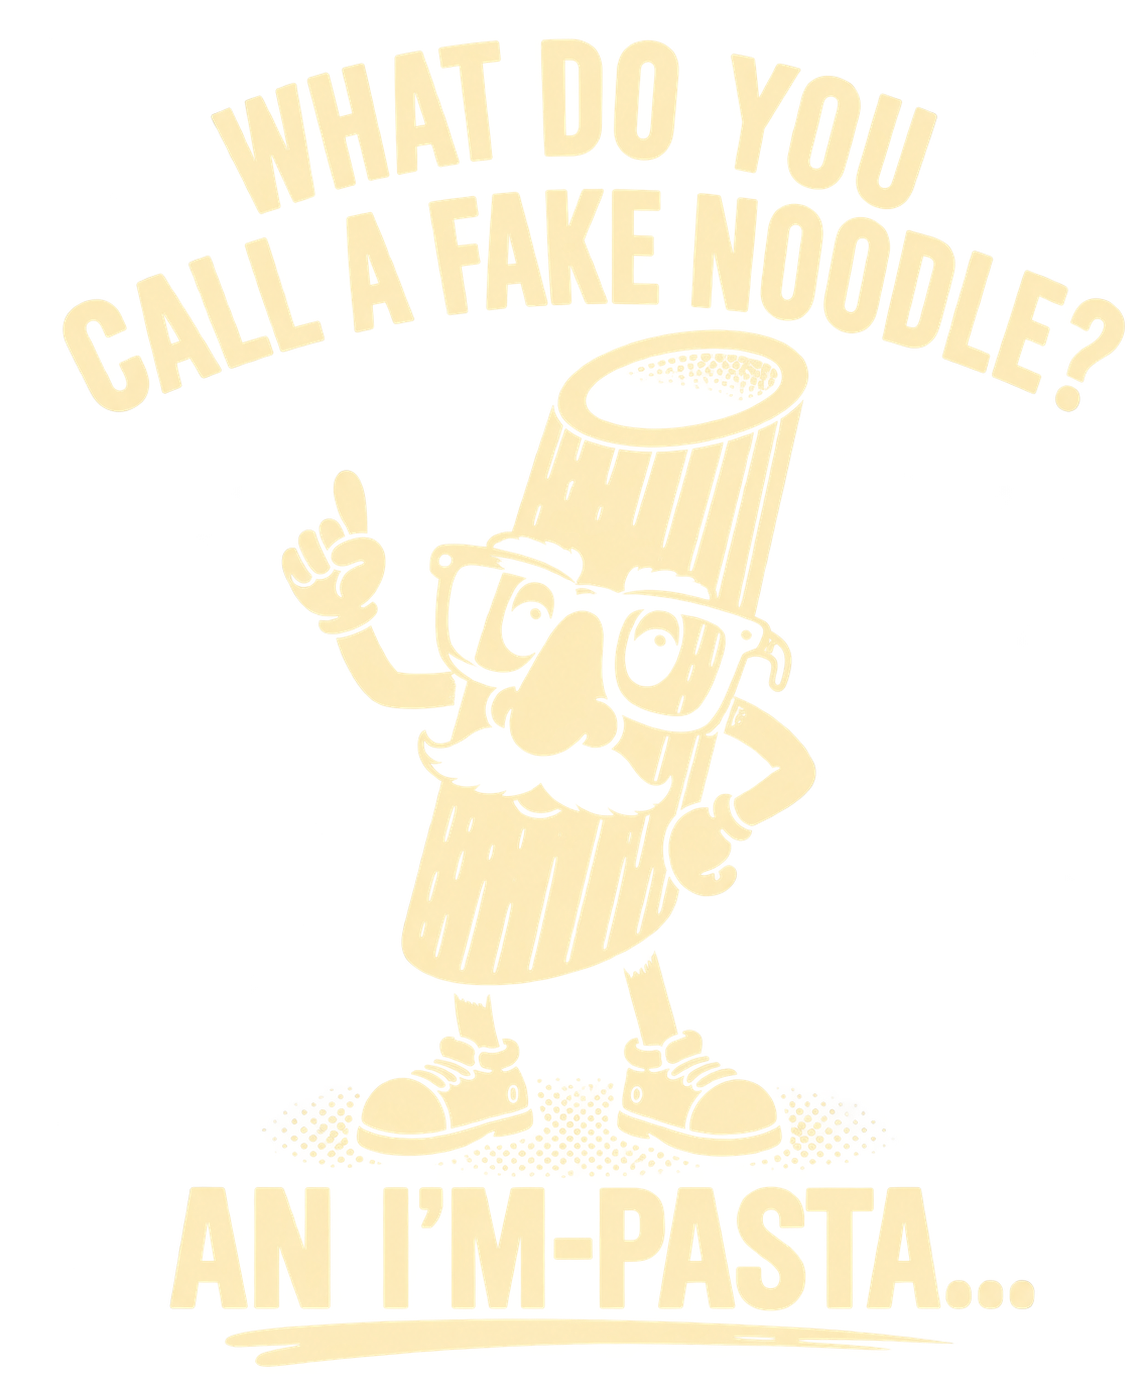
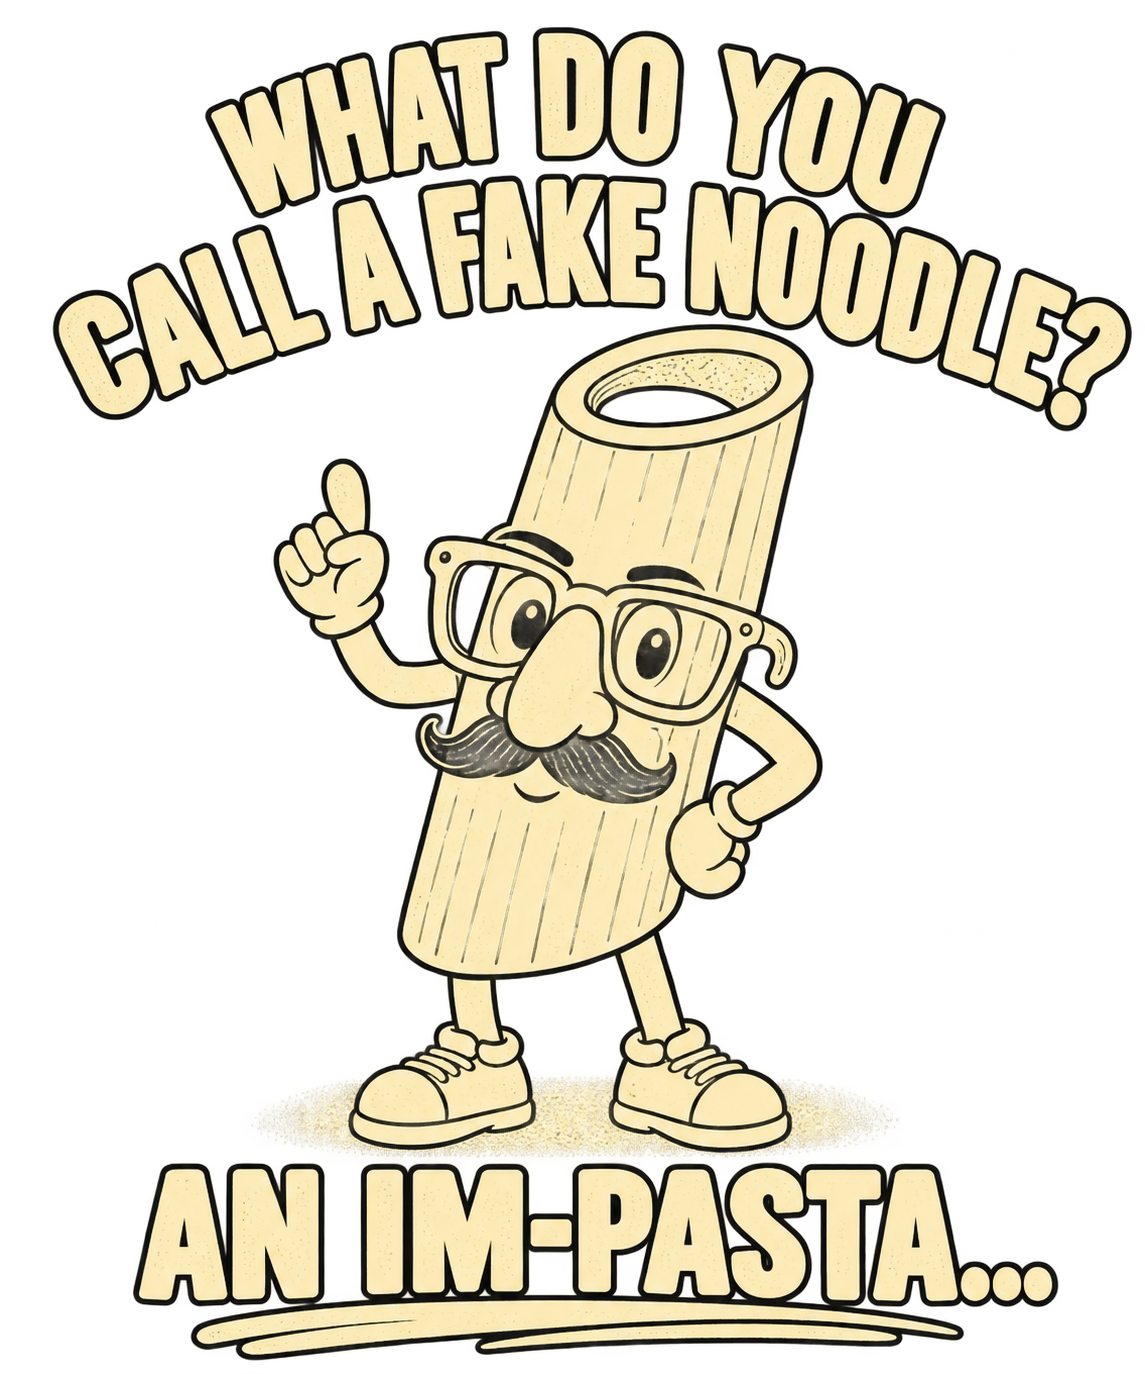
fixed product img and product description

Changed region(s): [[0.0306, 0.0, 1.0, 1.0]]

diff --git a/src/App.jsx b/src/App.jsx
@@ -88,9 +88,7 @@ function App() {
   };
 
   const removeItem = (indexToRemove) => {
-    setCartItems(
-      cartItems.filter((item, index) => index !== indexToRemove),
-    );
+    setCartItems(cartItems.filter((item, index) => index !== indexToRemove));
   };
 
   const cartCount = cartItems.reduce((total, item) => {
@@ -116,9 +114,7 @@ function App() {
 
         <nav className="nav__links">
           <div className="shop-dropdown">
-            <button className="shop-dropdown__button">
-              Shop
-            </button>
+            <button className="shop-dropdown__button">Shop</button>
 
             <div className="shop-dropdown__menu">
               <Link to="/shirts">Shirts</Link>
@@ -132,20 +128,16 @@ function App() {
             to="/#about"
             onClick={() => {
               setTimeout(() => {
-                document
-                  .getElementById("about")
-                  ?.scrollIntoView({
-                    behavior: "smooth",
-                  });
+                document.getElementById("about")?.scrollIntoView({
+                  behavior: "smooth",
+                });
               }, 300);
             }}
           >
             About
           </Link>
 
-          <Link to="/cart">
-            Cart ({cartCount})
-          </Link>
+          <Link to="/cart">Cart ({cartCount})</Link>
         </nav>
       </header>
 
@@ -159,45 +151,31 @@ function App() {
                   <div className="hero__content">
                     <h1>Built for Dad Life</h1>
 
-                    <p>
-                      Everyday gear for dads who set their own
-                      standard.
-                    </p>
+                    <p>Everyday gear for dads who set their own standard.</p>
 
-                    <Link
-                      to="/shirts"
-                      className="hero__shop-button"
-                    >
+                    <Link to="/shirts" className="hero__shop-button">
                       Shop Now
                     </Link>
                   </div>
 
                   <figure className="hero__image">
-                    <img
-                      src={HeroImage}
-                      alt="Dad Standard Co. Clothing"
-                    />
+                    <img src={HeroImage} alt="Dad Standard Co. Clothing" />
                   </figure>
                 </section>
 
-                <section
-                  className="featured"
-                  id="featured-products"
-                >
+                <section className="featured" id="featured-products">
                   <h2>Featured Products</h2>
 
                   <div className="featured__products">
                     {products
-                      .filter((product) =>
-                        [1, 2].includes(product.id),
-                      )
+                      .filter((product) => [1, 2].includes(product.id))
                       .map((product) => (
                         <ProductCard
                           key={product.id}
                           id={product.id}
                           name={product.name}
-                          price={product.price}
                           image={product.image}
+                          printifyProductId={product.printifyProductId}
                         />
                       ))}
                   </div>
@@ -207,13 +185,12 @@ function App() {
                   <h2>About Dad Standard Co.</h2>
 
                   <p>
-                    Dad Standard Co. is made for dads doing their
-                    best, cracking terrible jokes, hauling too much
-                    stuff, and somehow keeping it all together.
+                    Dad Standard Co. is made for dads doing their best, cracking
+                    terrible jokes, hauling too much stuff, and somehow keeping
+                    it all together.
                     <br />
                     <br />
-                    Comfortable gear for the everyday chaos of dad
-                    life.
+                    Comfortable gear for the everyday chaos of dad life.
                   </p>
                 </section>
               </>
@@ -222,36 +199,19 @@ function App() {
 
           <Route
             path="/products/:id"
-            element={
-              <ProductPage addToCart={addToCart} />
-            }
+            element={<ProductPage addToCart={addToCart} />}
           />
 
           <Route
             path="/shirts"
-            element={
-              <ShirtsPage addToCart={addToCart} />
-            }
+            element={<ShirtsPage addToCart={addToCart} />}
           />
 
-          <Route
-            path="/matching"
-            element={<MatchingPage />}
-          />
+          <Route path="/matching" element={<MatchingPage />} />
 
-          <Route
-            path="/kids"
-            element={
-              <KidsPage addToCart={addToCart} />
-            }
-          />
+          <Route path="/kids" element={<KidsPage addToCart={addToCart} />} />
 
-          <Route
-            path="/hats"
-            element={
-              <HatsPage addToCart={addToCart} />
-            }
-          />
+          <Route path="/hats" element={<HatsPage addToCart={addToCart} />} />
 
           <Route
             path="/cart"
@@ -268,20 +228,13 @@ function App() {
           <Route
             path="/checkout"
             element={
-              <CheckoutPage
-                cartItems={cartItems}
-                clearCart={clearCart}
-              />
+              <CheckoutPage cartItems={cartItems} clearCart={clearCart} />
             }
           />
 
           <Route
             path="/order-confirmation"
-            element={
-              <OrderConfirmationPage
-                clearCart={clearCart}
-              />
-            }
+            element={<OrderConfirmationPage clearCart={clearCart} />}
           />
         </Routes>
       </main>

diff --git a/src/data/products.js b/src/data/products.js
@@ -2,8 +2,9 @@ const products = [
   {
     id: 1,
     name: "Dad Standard Tee",
-    price: null,
-    image:    "https://images.printify.com/mockup/6ab5453141b86e214f0f51c2/103888/100285/1a0d41f7ec8.jpg?s=608",
+    printifyProductId: "6ab5453141b86e214f0f51c2",
+    image:
+"https://images.printify.com/mockup/6ab5453141b86e214f0f51c2/103888/100285/1a0d41f7ec8.jpg?s=608",
     type: "shirt",
     sizes: ["S", "M", "L", "XL", "2XL"],
     description:
@@ -33,10 +34,11 @@ const products = [
       "Do not dry clean",
     ],
   },
+
   {
     id: 2,
-    name: "The I'm-Pasta Tee",
-    price: null,
+    name: "The Im-Pasta Tee",
+    printifyProductId: "6ac16b360c4065ff510ba05d",
     image:
 "https://images.printify.com/mockup/6ac16b360c4065ff510ba05d/38192/97992/unisex-softstyle-t-shirt.jpg?camera_label=front&t=1791061608600&s=500",
     backImage:
@@ -44,9 +46,8 @@ const products = [
     type: "shirt",
     sizes: ["S", "M", "L", "XL", "2XL"],
     description:
-      "A dad joke you can wear. The I'm-Pasta Tee brings peak dad humor to an everyday tee, featuring the Dad Standard logo up front and the full fake-noodle punchline on the back.",
-    tagline:
-      "Certified al dente dad humor.",
+      "A dad joke you can wear. The Im-Pasta Tee brings peak dad humor to an everyday tee, featuring the Dad Standard logo up front and the full fake-noodle punchline on the back.",
+    tagline: "Certified al dente dad humor.",
     fabricIntro:
       "Soft, comfortable, and built for everyday dad duty.",
     fabricDetails: [
@@ -56,7 +57,7 @@ const products = [
       "Shoulder-to-shoulder taping",
       "Double-stitched hems for durability",
       "Dad Standard chest logo",
-      "Large I'm-Pasta back graphic",
+      "Large Im-Pasta back graphic",
     ],
     careIntro:
       "Keep your dad jokes looking fresh.",

diff --git a/src/components/ProductCard.jsx b/src/components/ProductCard.jsx
@@ -1,13 +1,20 @@
 import { useEffect, useState } from "react";
 import { Link } from "react-router-dom";
 
-function ProductCard({ name, image, id }) {
+function ProductCard({ name, image, id, printifyProductId }) {
   const [price, setPrice] = useState(null);
 
   useEffect(() => {
     async function getPrintifyPrice() {
+      if (!printifyProductId) {
+        console.error(`No Printify product ID found for ${name}`);
+        return;
+      }
+
       try {
-        const response = await fetch("/api/printify-products");
+        const response = await fetch(
+          `/api/printify-products?productId=${printifyProductId}`,
+        );
 
         if (!response.ok) {
           throw new Error("Could not load Printify pricing");
@@ -22,13 +29,17 @@ function ProductCard({ name, image, id }) {
     }
 
     getPrintifyPrice();
-  }, []);
+  }, [printifyProductId, name]);
 
   return (
     <Link to={`/products/${id}`} className="product-card-link">
       <article className="product-card">
         <figure className="product-card__image">
-          <img src={image} alt={name} />
+          <img
+            src={image}
+            alt={name}
+            loading="lazy"
+          />
         </figure>
 
         <div className="product-card__info">
